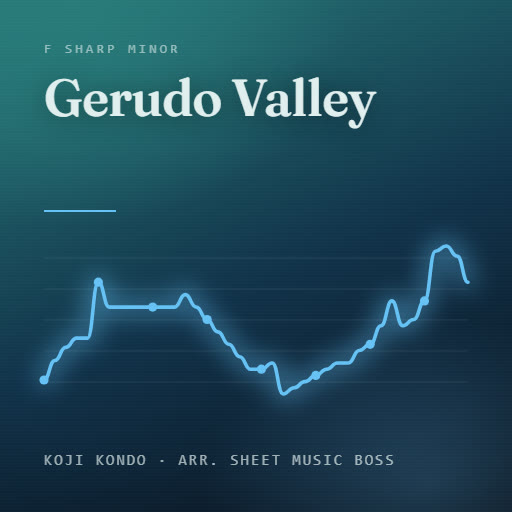
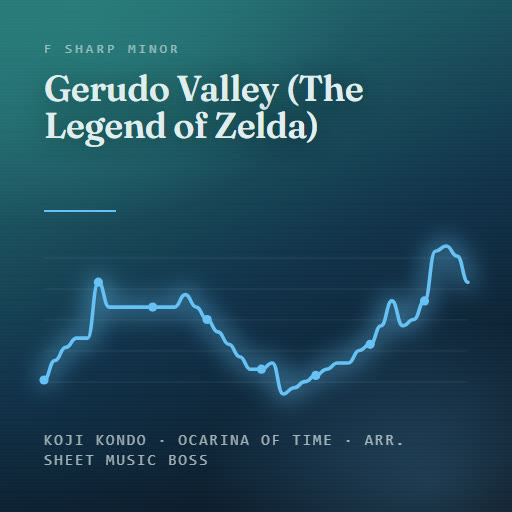
Both Zelda songs findable: name the game in the title (keys-v113)
Mark: "why is only one zelda song in the app after all this". Both were in,
and that is exactly the bug. The library search matches TITLE and COMPOSER
only, and Gerudo Valley's read "Gerudo Valley" / "Koji Kondo · arr. Sheet Music
Boss" - no word a person searching "zelda" could hit. Typing zelda returned one
result, typing ocarina returned none, so as far as the app was concerned there
was one Zelda song.

The library already has a convention for this and these two did not follow it:
the source work goes in the TITLE, in parentheses. "He's a Pirate (Pirates of
the Caribbean)", "Game of Thrones (Main Theme)", "Silksong (Main Theme)". So:

  Gerudo Valley (The Legend of Zelda)   Koji Kondo · Ocarina of Time · arr. SMB
  Zelda's Lullaby                       Koji Kondo · Ocarina of Time · arr. SMB

Both strings come off the arranger's own engraving, which prints "From The
Legend of Zelda: Ocarina of Time" under each title. Now "zelda" finds two and
"ocarina" finds two, tested against the same matcher the library uses. Sleeves
redrawn, since they print the title and the credit line.

All 19 gates green and the worklist at zero open, on ports cleared of the stale
headless Chromes first - one had hung canon-journeys for 28 minutes.

Changed region(s): [[0.0625, 0.125, 0.75, 0.2812], [0.0625, 0.8438, 0.6562, 0.9062], [0.6875, 0.8438, 0.7812, 0.9062]]

diff --git a/sw.js b/sw.js
@@ -1,5 +1,5 @@
 // App-shell cache. Bump VERSION on every deploy so clients update.
-const VERSION = 'keys-v112';  // Gerudo Valley Hard (authored-hands exemption, Mark's call)
+const VERSION = 'keys-v113';  // both Zelda songs findable: the game is in the title and the sub-line
 const SHELL = [
   '.', 'index.html', 'style.css', 'icon.svg', 'icon-192.png', 'icon-512.png', 'manifest.webmanifest', 'fonts/Fraunces.ttf',
   // ☠ songs.mjs IMPORTS songs-hands.mjs AND songs-fingers.mjs. Neither was
